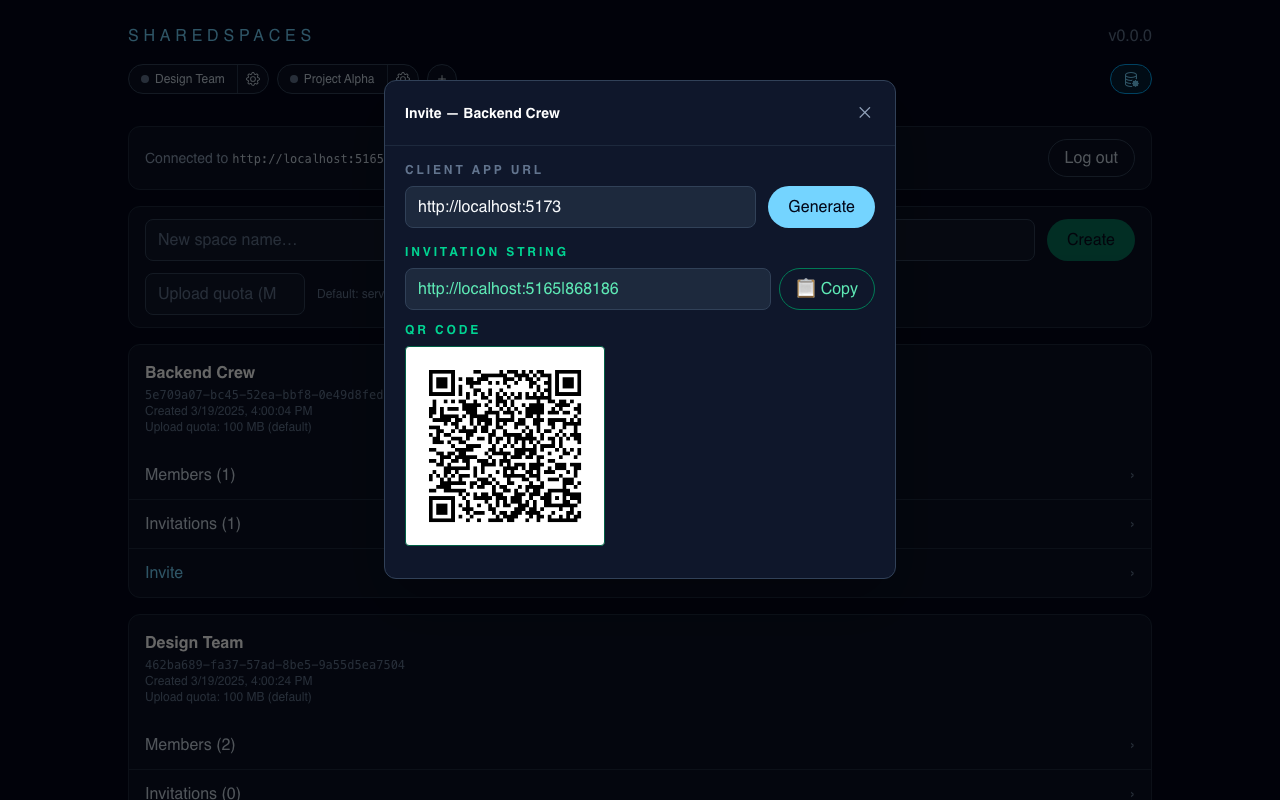
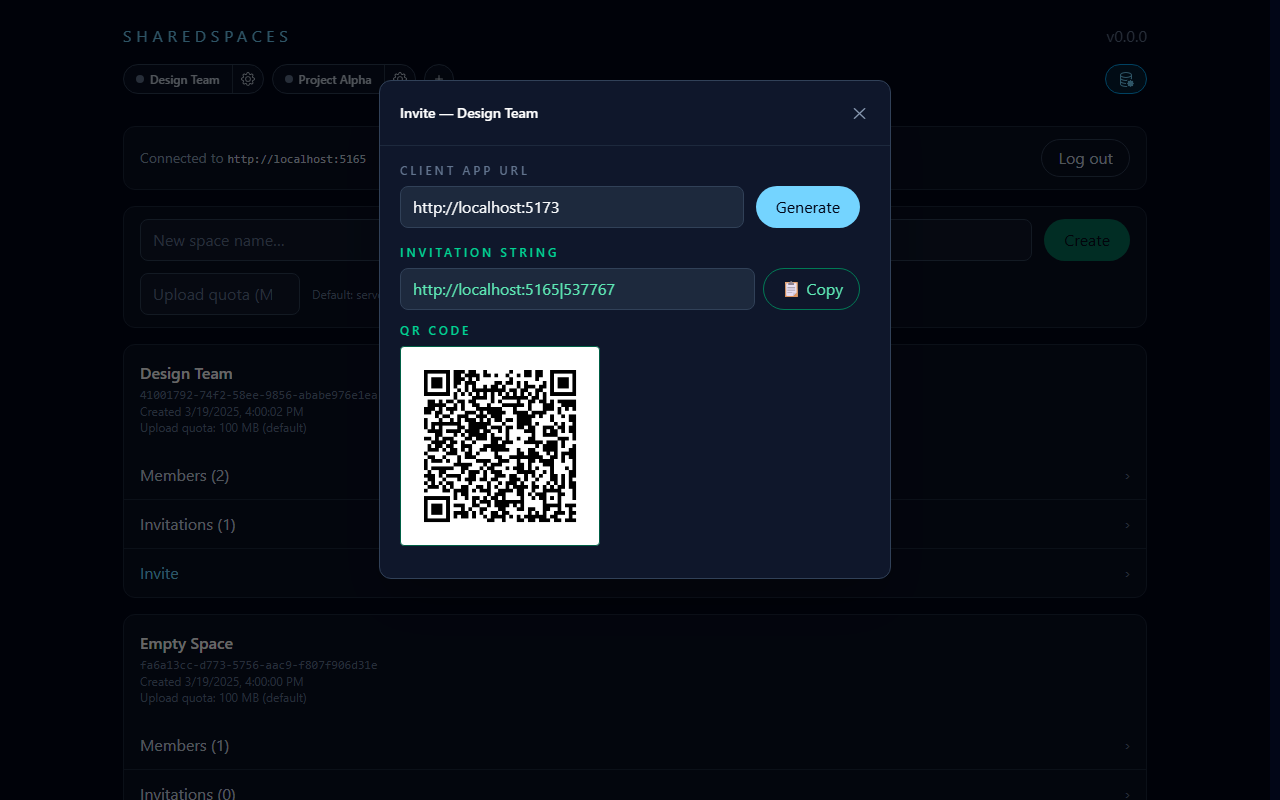
fix(client): clear stale invite modal state (#210)
Copilot-Session: e8224931-b1e3-4e73-b2ed-aeb3848f1b91

diff --git a/src/SharedSpaces.Client/src/features/admin/admin-view-sorting.test.ts b/src/SharedSpaces.Client/src/features/admin/admin-view-sorting.test.ts
@@ -319,4 +319,25 @@ describe('AdminView — Alphabetical Space Sorting (Issue #96)', () => {
       'inv-c',
     ]);
   });
+
+  it('clears previously generated invitation when opening invite modal', async () => {
+    createElement();
+    await element.updateComplete;
+
+    const space = makeSpace({ id: 'space-a', name: 'Alpha' });
+    (element as any).setSpaces([space]);
+    (element as any).updateSpaceCardState(space.id, {
+      generatedInvitation: {
+        invitationString: 'http://localhost:5165|space-a|123456',
+        qrCodeBase64: null,
+      },
+      invitationGenerationError: 'Old generation error',
+    });
+
+    (element as any).openModal('invite', space.id);
+    await element.updateComplete;
+
+    expect((element as any).spaceCardState[space.id].generatedInvitation).toBeNull();
+    expect((element as any).spaceCardState[space.id].invitationGenerationError).toBe('');
+  });
 });

diff --git a/src/SharedSpaces.Client/src/features/admin/admin-view.ts b/src/SharedSpaces.Client/src/features/admin/admin-view.ts
@@ -712,6 +712,13 @@ export class AdminView extends BaseElement {
   };
 
   private openModal(type: 'members' | 'invitations' | 'invite', spaceId: string) {
+    if (type === 'invite') {
+      this.updateSpaceCardState(spaceId, {
+        generatedInvitation: null,
+        invitationGenerationError: '',
+      });
+    }
+
     this.activeModal = { type, spaceId };
     this.handleEscapeKey = (e: KeyboardEvent) => {
       if (e.key === 'Escape') this.closeModal();
